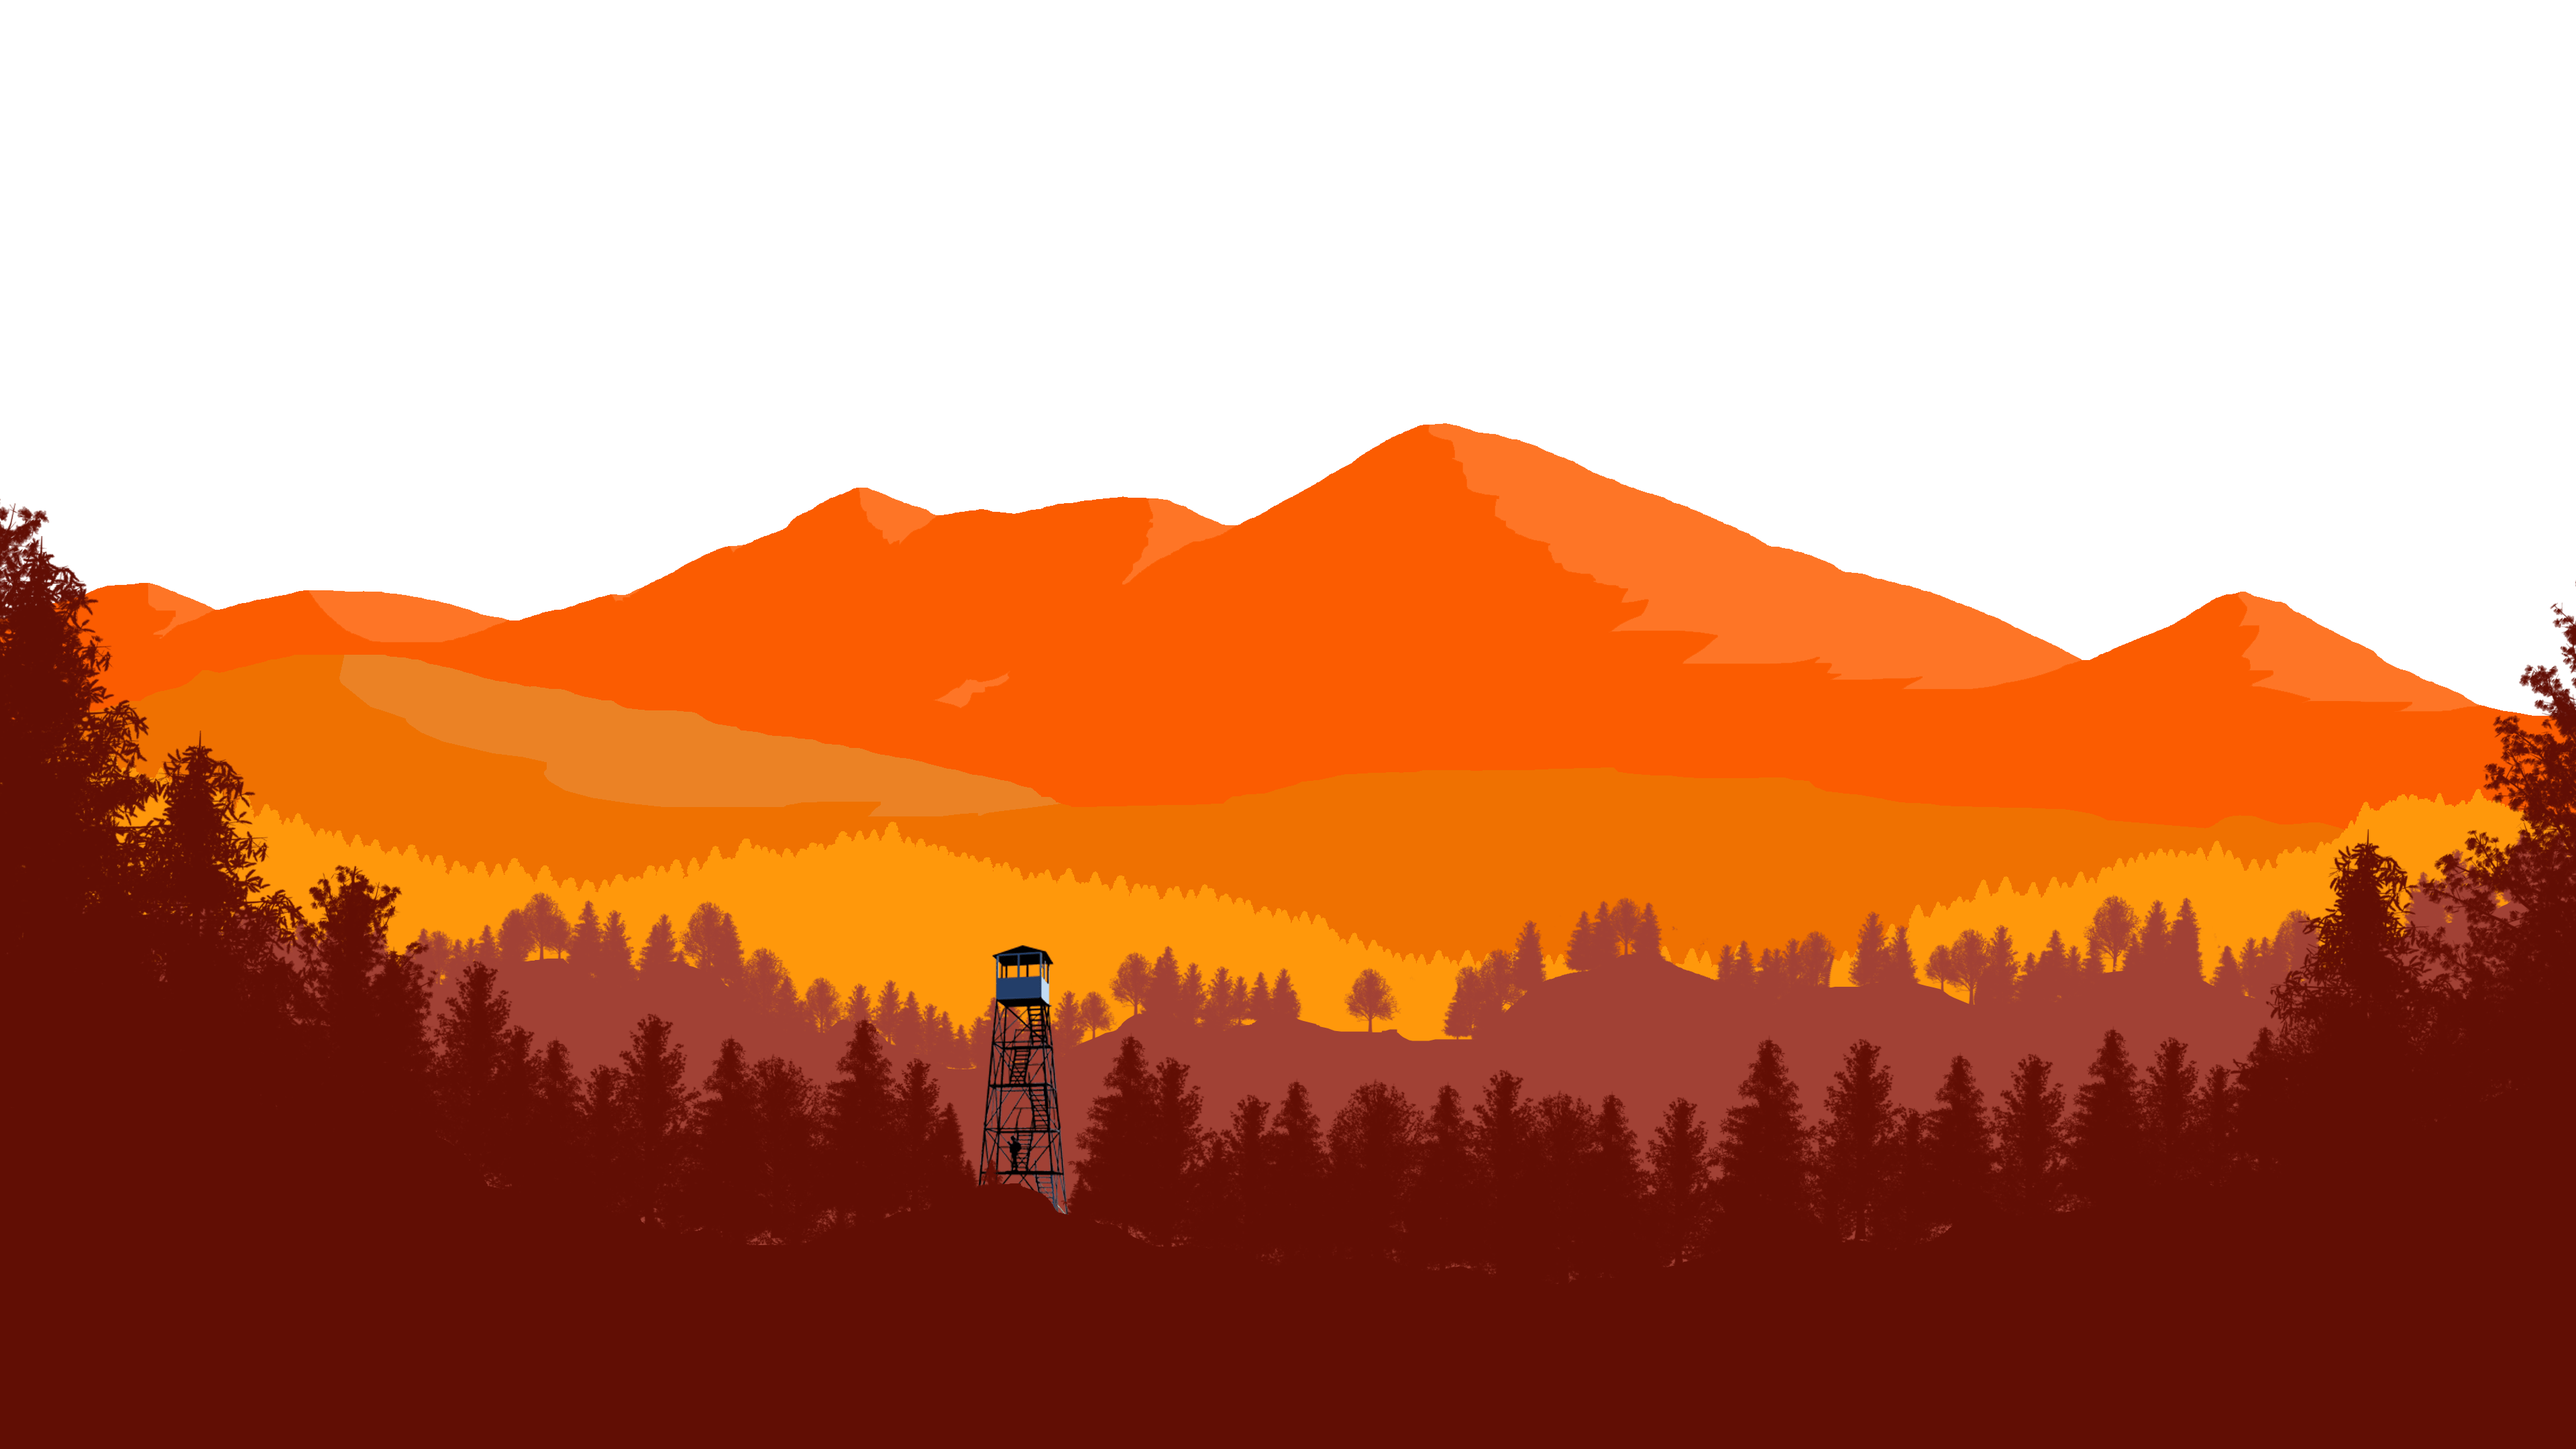
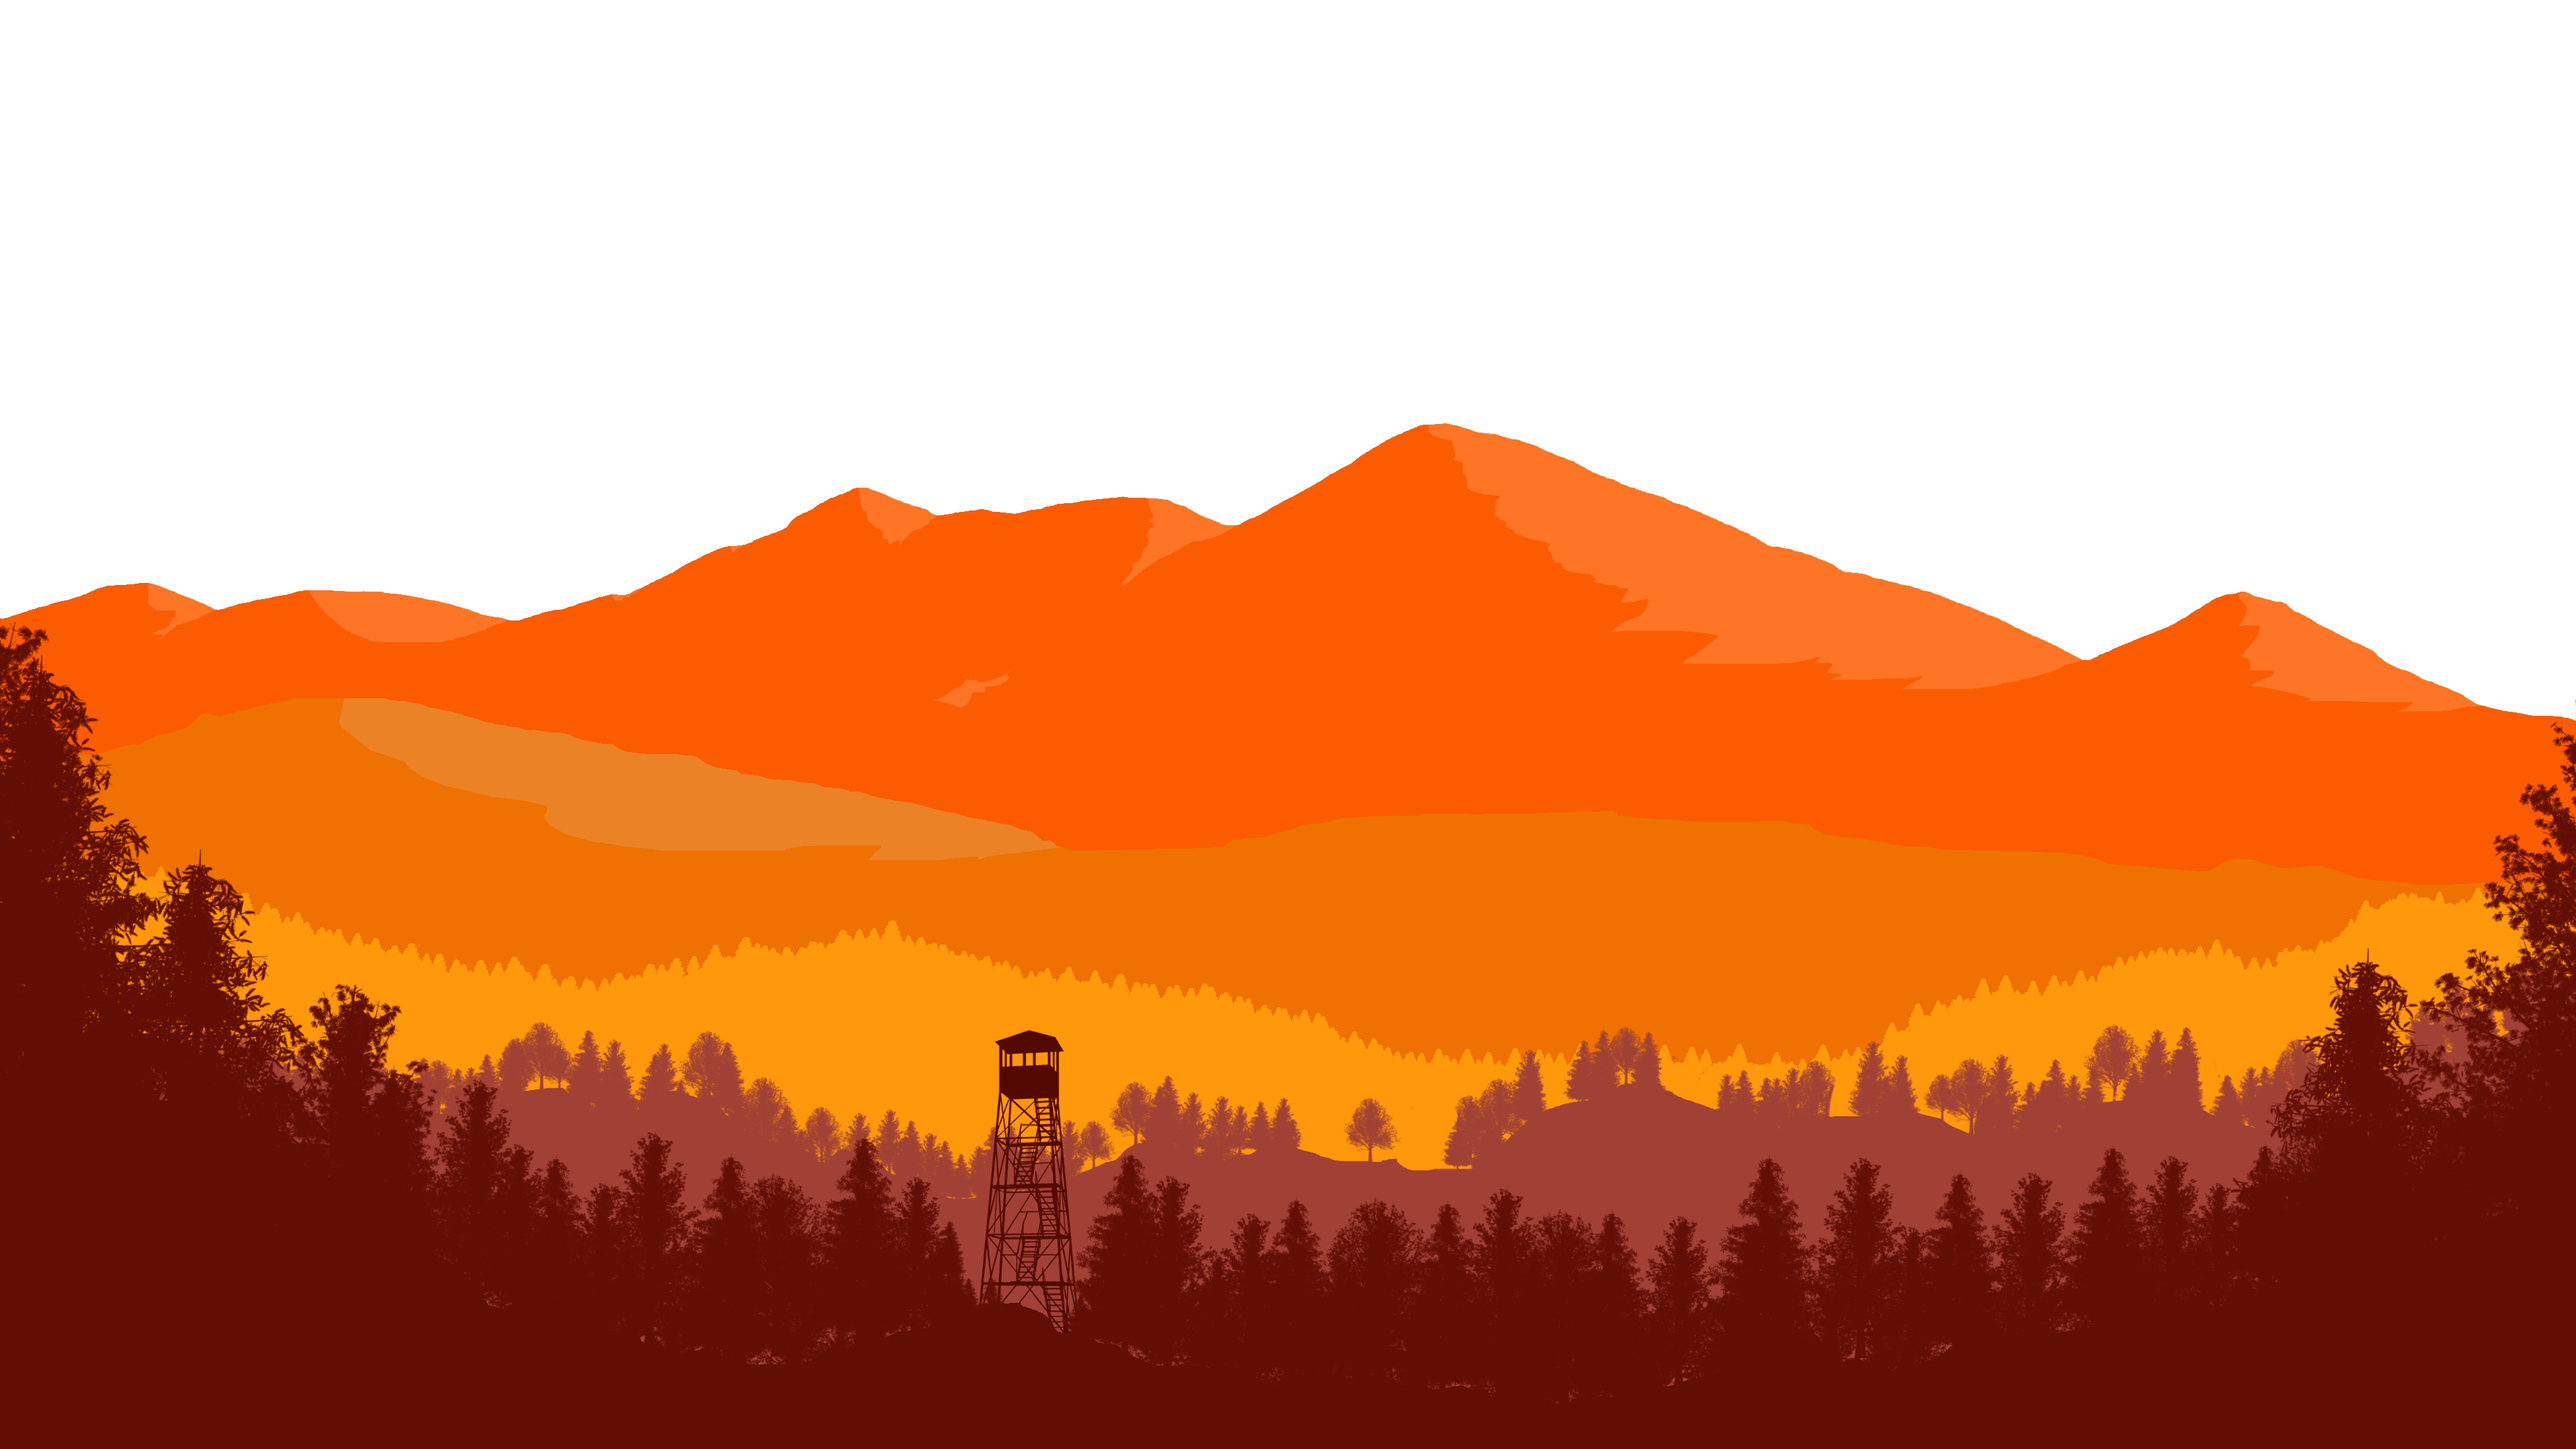
Updated no paralax header for iphone

Changed region(s): [[0.0, 0.3412, 1.0, 0.8995]]

diff --git a/css/header-min.css b/css/header-min.css
@@ -1,1 +1,1 @@
-header{min-height:100vh;min-width:100vw;padding:0;margin:0}.no-parallax-header{background-image:url("../images/no-parallax.png");background-position:center;background-repeat:no-repeat;background-size:cover}.parallax{position:absolute;height:100%;width:100%;background-attachment:fixed;background-position:center;background-repeat:no-repeat;background-size:cover;-webkit-transition:10ms;transition:10ms}.Layer6{background-image:url("../images/header-sky-transition.jpg")}.TheStars{height:100vh;width:100vw;padding:0;margin:0;position:absolute;top:0;left:0}.TheMoon{background-image:url("../images/moon-small.png");position:absolute;left:70vw;top:90vh;width:100px;height:100px;opacity:0.3}.TheSky{background:#1788fa;background:-webkit-linear-gradient(0deg, #4a351d 0%, #ff8b12 40%, #ffb160 45%, #ff608f 55%, #82d7ff 69%, #82d7ff 79%, #1788fa 100%);background:-webkit-gradient(linear, left bottom, left top, from(#4a351d), color-stop(40%, #ff8b12), color-stop(45%, #ffb160), color-stop(55%, #ff608f), color-stop(69%, #82d7ff), color-stop(79%, #82d7ff), to(#1788fa));background:-webkit-linear-gradient(bottom, #4a351d 0%, #ff8b12 40%, #ffb160 45%, #ff608f 55%, #82d7ff 69%, #82d7ff 79%, #1788fa 100%);background:linear-gradient(0deg, #4a351d 0%, #ff8b12 40%, #ffb160 45%, #ff608f 55%, #82d7ff 69%, #82d7ff 79%, #1788fa 100%);height:200vh;width:100vw;padding:0;margin:0;position:absolute;top:0;left:0}.Layer5{background-image:url("../images/Layer5.png")}.Layer4{background-image:url("../images/Layer4.png")}.Layer3{background-image:url("../images/Layer3.png")}.Layer2{background-image:url("../images/Layer2.png")}.Layer1{background-image:url("../images/Layer1.png")}.Layer0{background-image:url("../images/Overlay.png")}.title{text-align:center;padding:30px;z-index:-10;color:#f17500;text-shadow:1px 1px 1px black}
+header{min-height:100vh;min-width:100vw;padding:0;margin:0}.no-parallax-header{position:absolute;height:100vh;width:100vw;background-image:url("../images/no-parallax.png");background-attachment:fixed;background-position:center;background-repeat:no-repeat;background-size:cover}.parallax{position:absolute;height:100vh;width:100vw;background-attachment:fixed;background-position:center;background-repeat:no-repeat;background-size:cover;-webkit-transition:10ms;transition:10ms}.Layer6{background-image:url("../images/header-sky-transition.jpg")}.TheStars{height:100vh;width:100vw;padding:0;margin:0;position:absolute;top:0;left:0}.TheMoon{background-image:url("../images/moon-small.png");position:absolute;left:70vw;top:90vh;width:100px;height:100px;opacity:0.3}.TheSky{background:#1788fa;background:-webkit-linear-gradient(0deg, #4a351d 0%, #ff8b12 40%, #ffb160 45%, #ff608f 55%, #82d7ff 69%, #82d7ff 79%, #1788fa 100%);background:-webkit-gradient(linear, left bottom, left top, from(#4a351d), color-stop(40%, #ff8b12), color-stop(45%, #ffb160), color-stop(55%, #ff608f), color-stop(69%, #82d7ff), color-stop(79%, #82d7ff), to(#1788fa));background:-webkit-linear-gradient(bottom, #4a351d 0%, #ff8b12 40%, #ffb160 45%, #ff608f 55%, #82d7ff 69%, #82d7ff 79%, #1788fa 100%);background:linear-gradient(0deg, #4a351d 0%, #ff8b12 40%, #ffb160 45%, #ff608f 55%, #82d7ff 69%, #82d7ff 79%, #1788fa 100%);height:200vh;width:100vw;padding:0;margin:0;position:absolute;top:0;left:0}.Layer5{background-image:url("../images/Layer5.png")}.Layer4{background-image:url("../images/Layer4.png")}.Layer3{background-image:url("../images/Layer3.png")}.Layer2{background-image:url("../images/Layer2.png")}.Layer1{background-image:url("../images/Layer1.png")}.Layer0{background-image:url("../images/Overlay.png")}.title{text-align:center;padding:30px;z-index:-10;color:#f17500;text-shadow:1px 1px 1px black}

diff --git a/css/header.css b/css/header.css
@@ -6,7 +6,11 @@
  }
  
  .no-parallax-header {
+     position: absolute;
+     height: 100vh;
+     width: 100vw;
      background-image: url('../images/no-parallax.png');
+     background-attachment: fixed;
      background-position: center;
      background-repeat: no-repeat;
      background-size: cover;
@@ -14,8 +18,8 @@
  
  .parallax {
      position: absolute;
-     height: 100%;
-     width: 100%;
+     height: 100vh;
+     width: 100vw;
      background-attachment: fixed;
      background-position: center;
      background-repeat: no-repeat;
